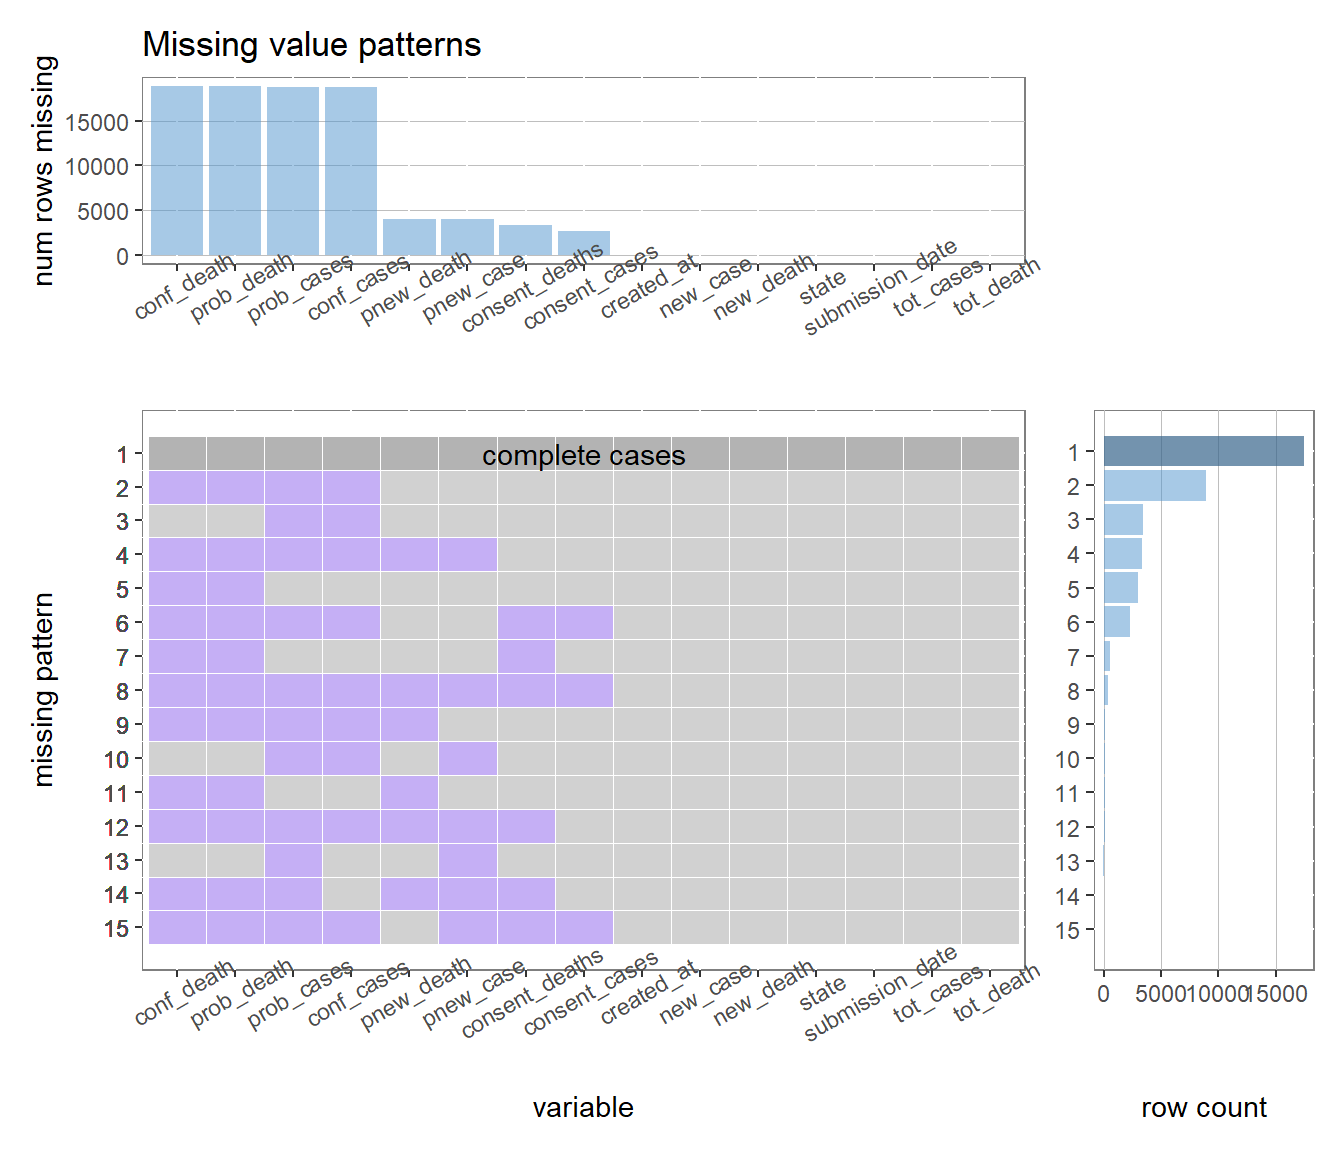
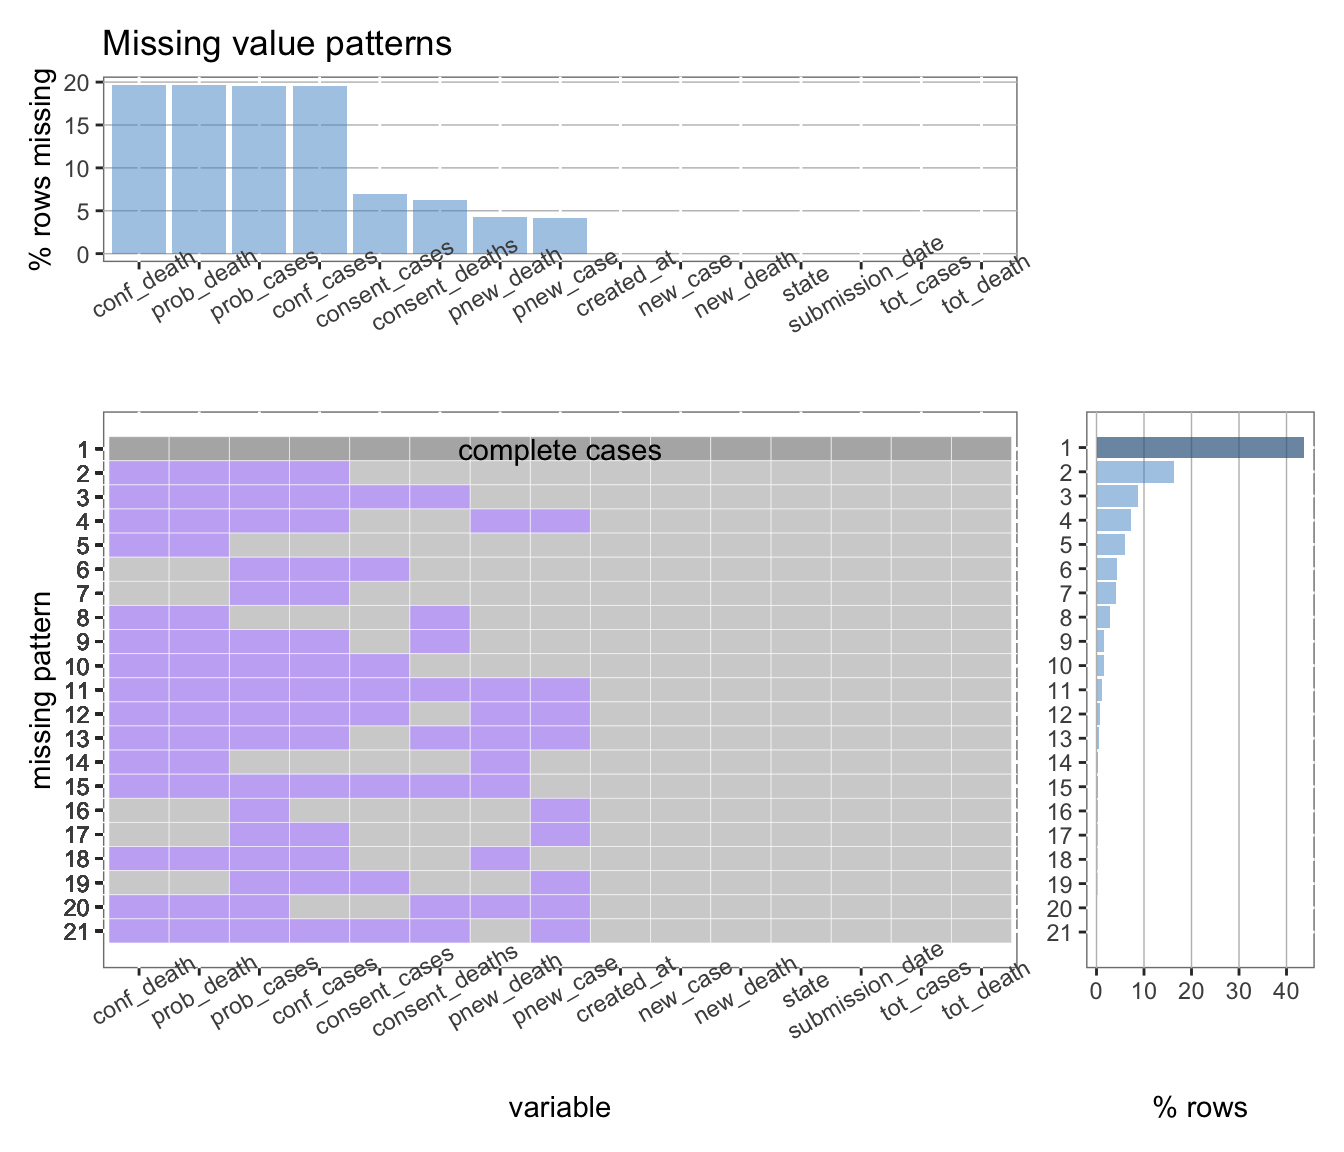
change 04

diff --git a/docs/missing-values.html b/docs/missing-values.html
@@ -33,7 +33,6 @@
   
 <link rel="prev" href="data-transformation.html"/>
 <link rel="next" href="results.html"/>
-<script src="libs/header-attrs-2.11/header-attrs.js"></script>
 <script src="libs/jquery-3.6.0/jquery-3.6.0.min.js"></script>
 <script src="https://cdn.jsdelivr.net/npm/fuse.js@6.4.6/dist/fuse.min.js"></script>
 <link href="libs/gitbook-2.6.7/css/style.css" rel="stylesheet" />
@@ -99,10 +98,11 @@
           <div class="page-inner">
 
             <section class="normal" id="section-">
-<div id="missing-values" class="section level1" number="4">
+<div id="missing-values" class="section level1">
 <h1><span class="header-section-number">Chapter 4</span> Missing values</h1>
 <p><img src="finalproj_files/figure-html/unnamed-chunk-7-1.png" width="672" /></p>
-<p>Overall there are only 11 distinct missing pattern for nearly 40000 rows of data. In particular, less than half of the rows are complete cases. Total confirmed death, total probable death, total probable cases and total confirmed cases have the highest numbers of missing data, where the numbers are roughly identical. These four variables often have missing values at the same time. Number of missing new probable cases and number of new probable deaths are also significant, but they are a lot lower than the previous four attributes, where all other attributes have no missing data.</p>
+<p>Overall there are only 21 distinct missing pattern for nearly 40000 rows of data. In particular, less than half of the rows are complete cases. Total confirmed death, total probable death, total probable cases and total confirmed cases have the highest numbers of missing data, where the percent of missing values are roughly identical to about 20 percent. These four variables often have missing values at the same time. Around 15 percent of total rows only have these four variables missing at the same time. Percent of missing consent cases and consent deaths are roughly identical. Pecent of missing new probable cases and new probable deaths are also roughly identical. The missing percentage for these four variables are also significant, but they are a lot lower than the previous four attributes, where all other attributes have no missing data.</p>
+<p>There are also some correlations between variables. Consent cases and consent death variable indicates if the state consent to disclosure the data on cases and deaths. There are three values: ‘agree’, ‘not agree’ and NA (the missing value). After understanding the variable, we found that when consent cases is missing, total probable cases and total confirmed cases are missing as well. Same thing happen to consent deaths， total probable deaths and total confirmed deaths. Therefore, after the missing value analysis, we can conclude that missing values in consent cases and consent deaths is equivalent to ‘not agree’. And now the consent cases and consent death can be translate to a logical variable having 0 and 1 as values.</p>
 
 </div>
             </section>

diff --git a/docs/data-transformation.html b/docs/data-transformation.html
@@ -33,7 +33,6 @@
   
 <link rel="prev" href="data-sources.html"/>
 <link rel="next" href="missing-values.html"/>
-<script src="libs/header-attrs-2.11/header-attrs.js"></script>
 <script src="libs/jquery-3.6.0/jquery-3.6.0.min.js"></script>
 <script src="https://cdn.jsdelivr.net/npm/fuse.js@6.4.6/dist/fuse.min.js"></script>
 <link href="libs/gitbook-2.6.7/css/style.css" rel="stylesheet" />
@@ -99,7 +98,7 @@
           <div class="page-inner">
 
             <section class="normal" id="section-">
-<div id="data-transformation" class="section level1" number="3">
+<div id="data-transformation" class="section level1">
 <h1><span class="header-section-number">Chapter 3</span> Data transformation</h1>
 
 </div>

diff --git a/docs/interactive-component.html b/docs/interactive-component.html
@@ -33,7 +33,6 @@
   
 <link rel="prev" href="results.html"/>
 <link rel="next" href="conclusion.html"/>
-<script src="libs/header-attrs-2.11/header-attrs.js"></script>
 <script src="libs/jquery-3.6.0/jquery-3.6.0.min.js"></script>
 <script src="https://cdn.jsdelivr.net/npm/fuse.js@6.4.6/dist/fuse.min.js"></script>
 <link href="libs/gitbook-2.6.7/css/style.css" rel="stylesheet" />
@@ -99,7 +98,7 @@
           <div class="page-inner">
 
             <section class="normal" id="section-">
-<div id="interactive-component" class="section level1" number="6">
+<div id="interactive-component" class="section level1">
 <h1><span class="header-section-number">Chapter 6</span> Interactive component</h1>
 
 </div>

diff --git a/docs/data-sources.html b/docs/data-sources.html
@@ -33,7 +33,6 @@
   
 <link rel="prev" href="index.html"/>
 <link rel="next" href="data-transformation.html"/>
-<script src="libs/header-attrs-2.11/header-attrs.js"></script>
 <script src="libs/jquery-3.6.0/jquery-3.6.0.min.js"></script>
 <script src="https://cdn.jsdelivr.net/npm/fuse.js@6.4.6/dist/fuse.min.js"></script>
 <link href="libs/gitbook-2.6.7/css/style.css" rel="stylesheet" />
@@ -99,7 +98,7 @@
           <div class="page-inner">
 
             <section class="normal" id="section-">
-<div id="data-sources" class="section level1" number="2">
+<div id="data-sources" class="section level1">
 <h1><span class="header-section-number">Chapter 2</span> Data sources</h1>
 
 </div>

diff --git a/docs/results.html b/docs/results.html
@@ -33,7 +33,6 @@
   
 <link rel="prev" href="missing-values.html"/>
 <link rel="next" href="interactive-component.html"/>
-<script src="libs/header-attrs-2.11/header-attrs.js"></script>
 <script src="libs/jquery-3.6.0/jquery-3.6.0.min.js"></script>
 <script src="https://cdn.jsdelivr.net/npm/fuse.js@6.4.6/dist/fuse.min.js"></script>
 <link href="libs/gitbook-2.6.7/css/style.css" rel="stylesheet" />
@@ -99,7 +98,7 @@
           <div class="page-inner">
 
             <section class="normal" id="section-">
-<div id="results" class="section level1" number="5">
+<div id="results" class="section level1">
 <h1><span class="header-section-number">Chapter 5</span> Results</h1>
 
 </div>

diff --git a/docs/index.html b/docs/index.html
@@ -33,7 +33,6 @@
   
 
 <link rel="next" href="data-sources.html"/>
-<script src="libs/header-attrs-2.11/header-attrs.js"></script>
 <script src="libs/jquery-3.6.0/jquery-3.6.0.min.js"></script>
 <script src="https://cdn.jsdelivr.net/npm/fuse.js@6.4.6/dist/fuse.min.js"></script>
 <link href="libs/gitbook-2.6.7/css/style.css" rel="stylesheet" />
@@ -104,7 +103,7 @@
 <p class="author"><em>Alvin Pan, Shuyue Xu, Hang Xu</em></p>
 <p class="date"><em>2021-11-18</em></p>
 </div>
-<div id="introduction" class="section level1" number="1">
+<div id="introduction" class="section level1">
 <h1><span class="header-section-number">Chapter 1</span> Introduction</h1>
 
 </div>

diff --git a/docs/conclusion.html b/docs/conclusion.html
@@ -33,7 +33,6 @@
   
 <link rel="prev" href="interactive-component.html"/>
 
-<script src="libs/header-attrs-2.11/header-attrs.js"></script>
 <script src="libs/jquery-3.6.0/jquery-3.6.0.min.js"></script>
 <script src="https://cdn.jsdelivr.net/npm/fuse.js@6.4.6/dist/fuse.min.js"></script>
 <link href="libs/gitbook-2.6.7/css/style.css" rel="stylesheet" />
@@ -99,7 +98,7 @@
           <div class="page-inner">
 
             <section class="normal" id="section-">
-<div id="conclusion" class="section level1" number="7">
+<div id="conclusion" class="section level1">
 <h1><span class="header-section-number">Chapter 7</span> Conclusion</h1>
 
 </div>

diff --git a/docs/404.html b/docs/404.html
@@ -33,7 +33,6 @@
   
 
 
-<script src="libs/header-attrs-2.11/header-attrs.js"></script>
 <script src="libs/jquery-3.6.0/jquery-3.6.0.min.js"></script>
 <script src="https://cdn.jsdelivr.net/npm/fuse.js@6.4.6/dist/fuse.min.js"></script>
 <link href="libs/gitbook-2.6.7/css/style.css" rel="stylesheet" />
